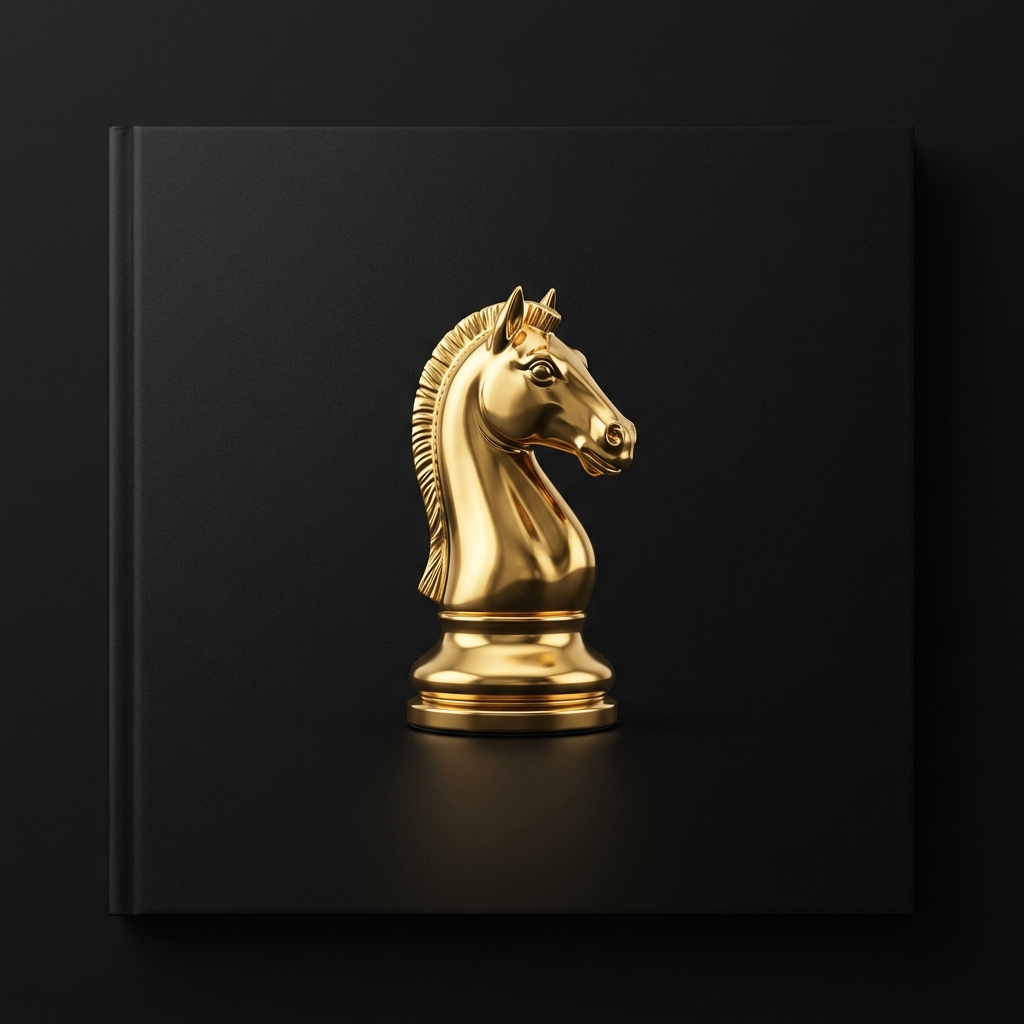
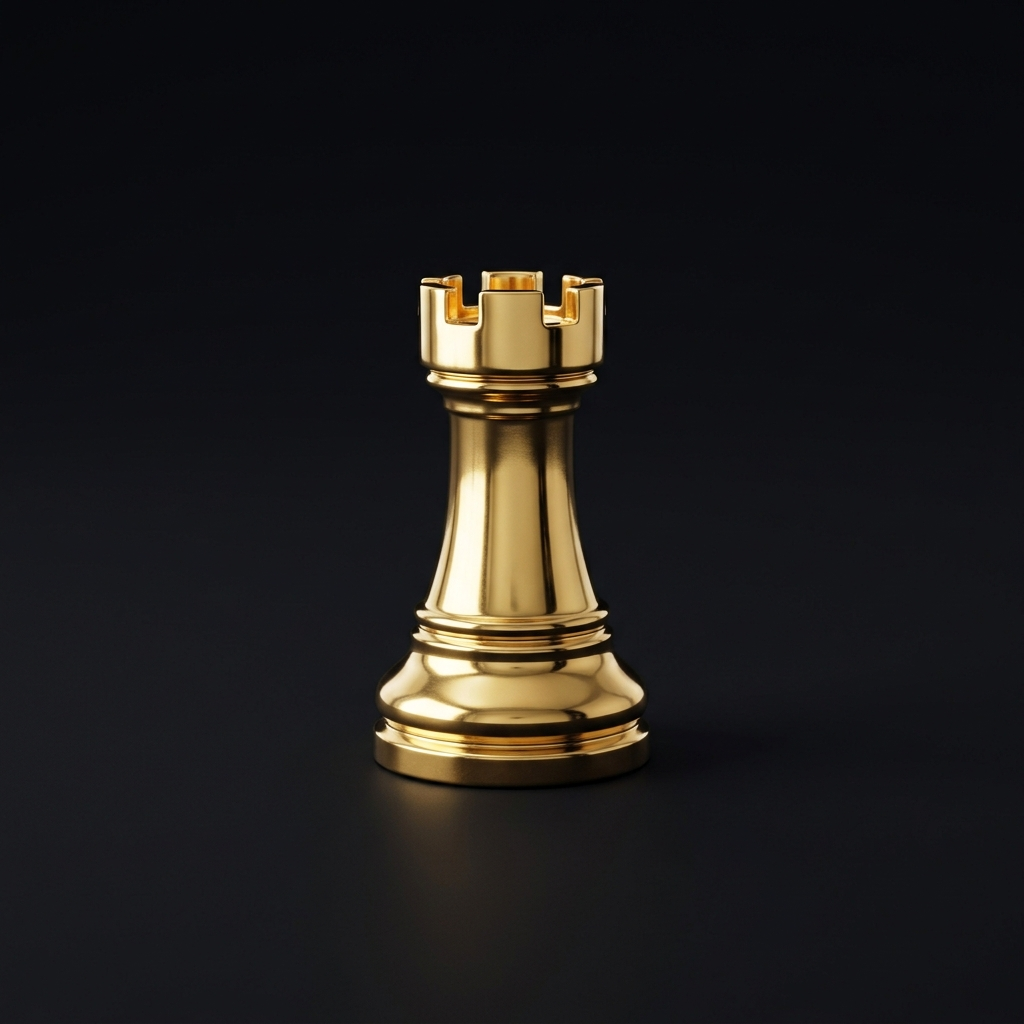
feat: simplify credit package names, update chess piece order (Pawn->Rook->King) and update book 2 cover with King

Changed region(s): [[0.0, 0.0, 0.625, 0.8125], [0.3438, 0.875, 0.5312, 0.9375], [0.125, 0.875, 0.3125, 0.9062]]

diff --git a/src/app/(protected)/dashboard/billing/page.tsx b/src/app/(protected)/dashboard/billing/page.tsx
@@ -7,7 +7,7 @@ import { createClient } from "@/lib/supabase/client";
 const PACKAGES = [
   {
     id: "pkg_100",
-    title: "Başlangıç Protokolü",
+    title: "Başlangıç Paketi",
     credits: 100,
     price: 200,
     image: "/mentis_100_credits.png",
@@ -16,7 +16,7 @@ const PACKAGES = [
   },
   {
     id: "pkg_500",
-    title: "Uzman Stratejist",
+    title: "Uzman Paketi",
     credits: 500,
     price: 800,
     image: "/mentis_500_credits.png",
@@ -31,7 +31,7 @@ const PACKAGES = [
   },
   {
     id: "pkg_1000",
-    title: "Elit Dominans",
+    title: "Elit Paket",
     credits: 1000,
     price: 1400,
     image: "/mentis_1000_credits.png",
@@ -360,12 +360,12 @@ export default function BillingPage() {
         
         {/* Book Cover Mockup */}
         <div 
-          onClick={() => setZoomedImage("/mentis_secret_files_vol1.jpg")}
+          onClick={() => setZoomedImage("/mentis_secret_files_vol1.png")}
           className="w-40 md:w-44 aspect-[3/4] border border-obsidian bg-void relative rounded-sm overflow-hidden flex-shrink-0 shadow-2xl group hover:border-gold/30 transition-all duration-500 cursor-zoom-in"
           title="Büyütmek için tıklayın"
         >
           <img 
-            src="/mentis_secret_files_vol1.jpg" 
+            src="/mentis_secret_files_vol1.png" 
             alt="Mentis Gizli Dosyalar: Cilt 1"
             className="w-full h-full object-cover grayscale opacity-90 group-hover:grayscale-0 group-hover:opacity-100 transition-all duration-700"
           />